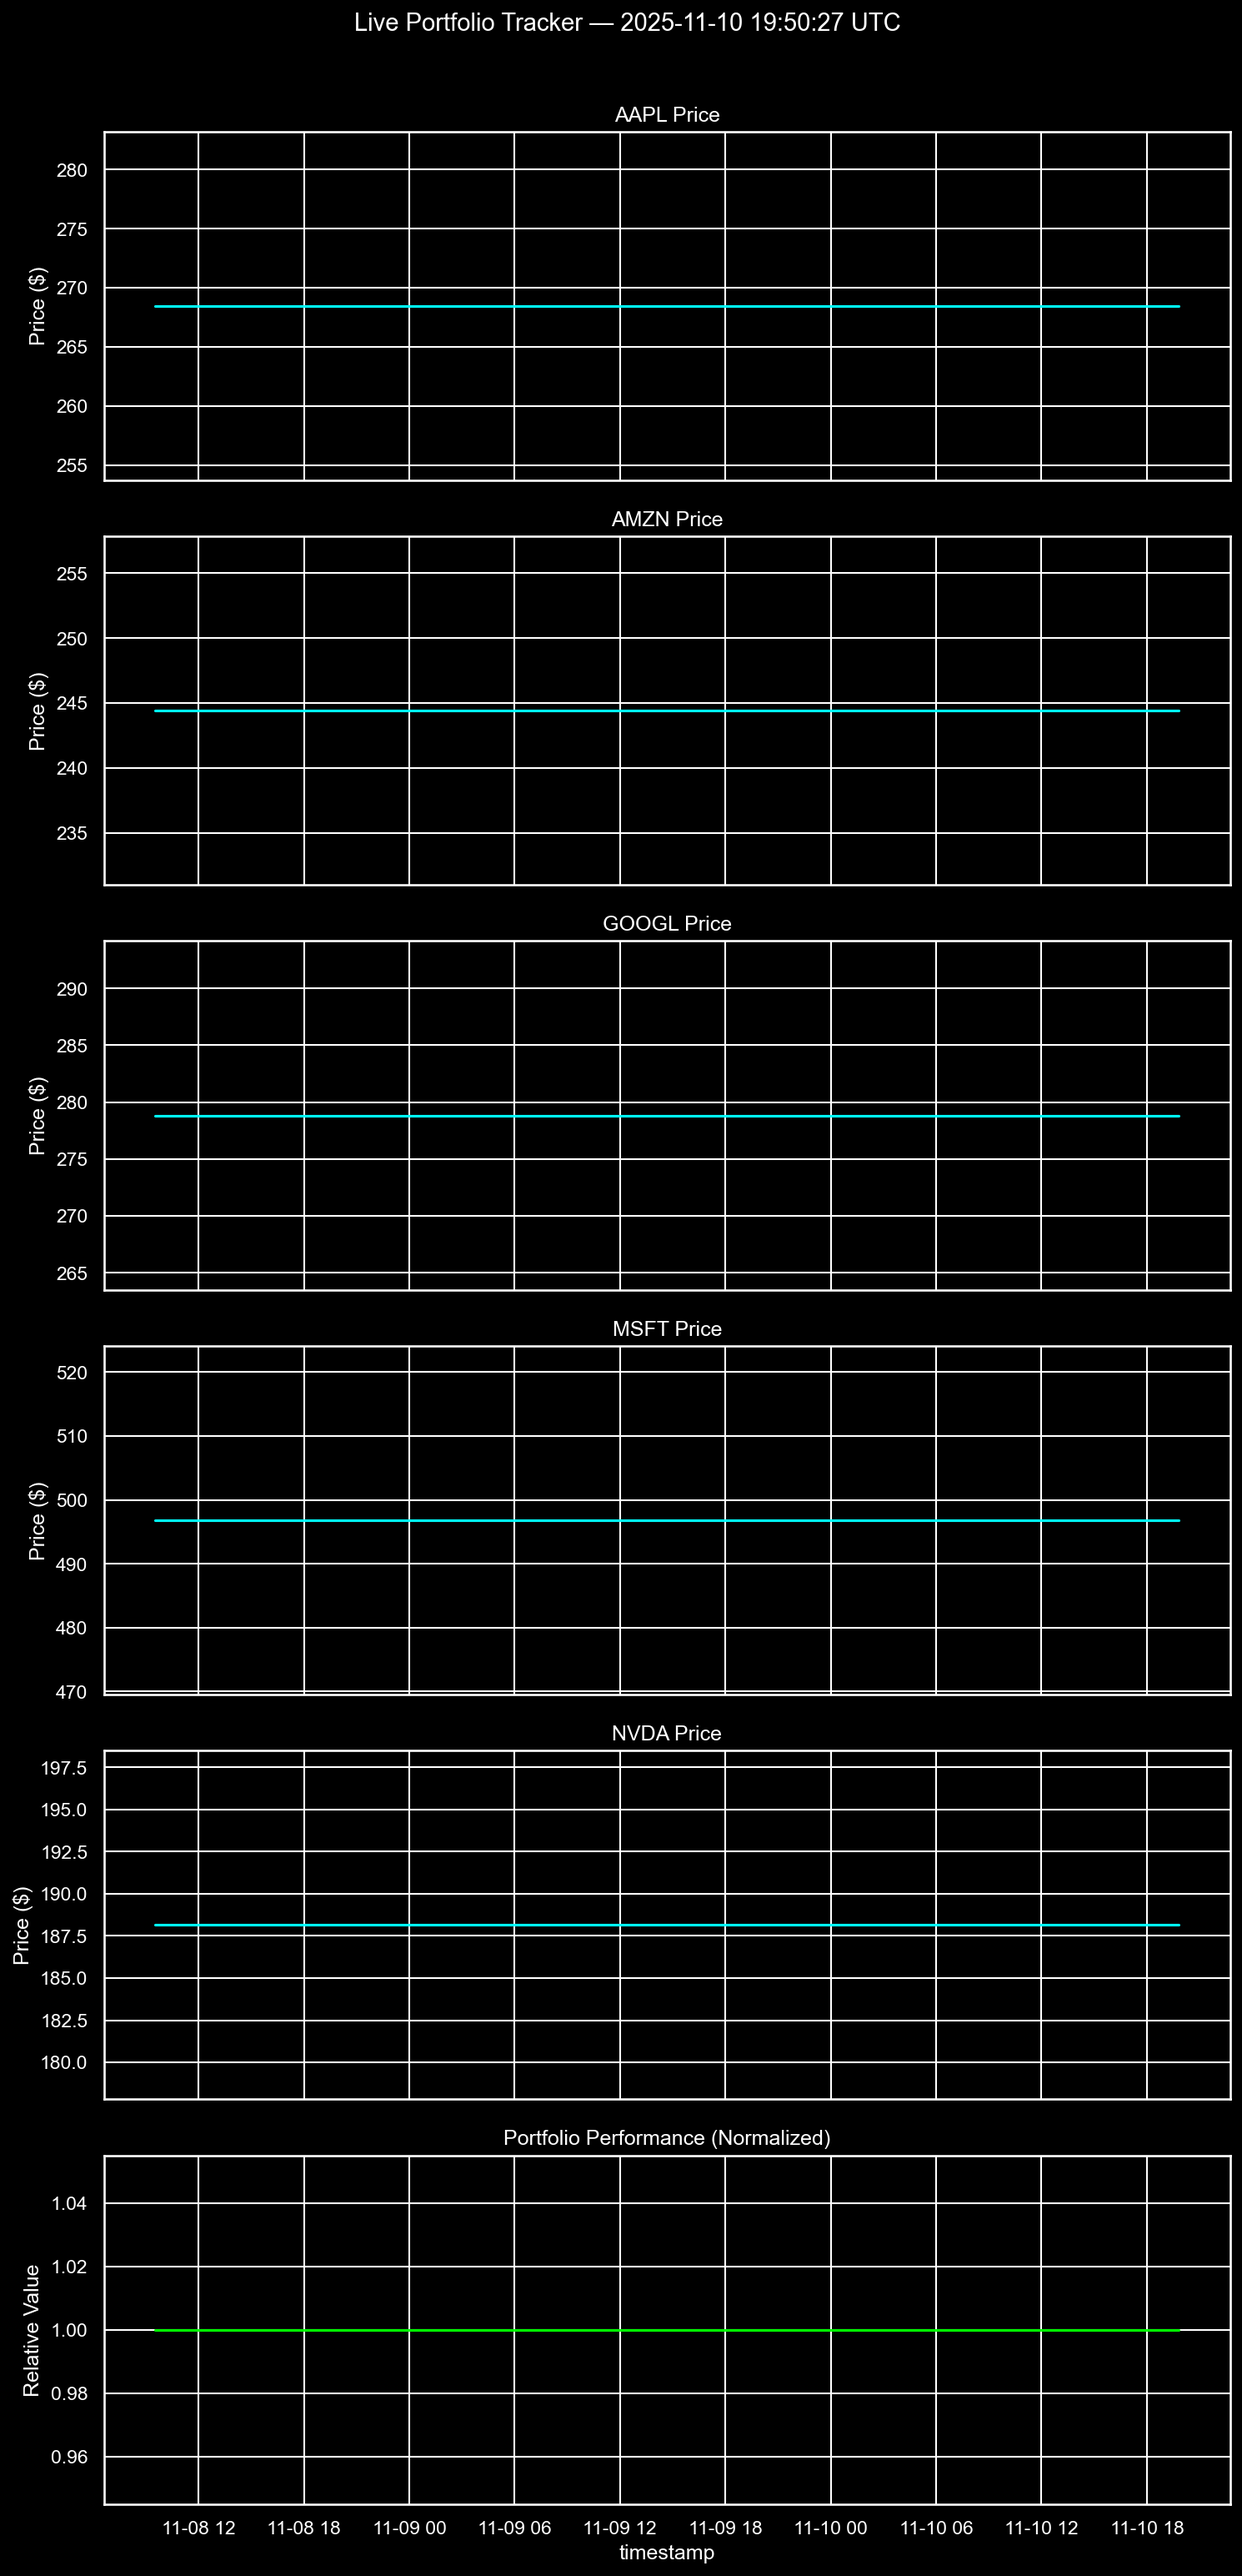
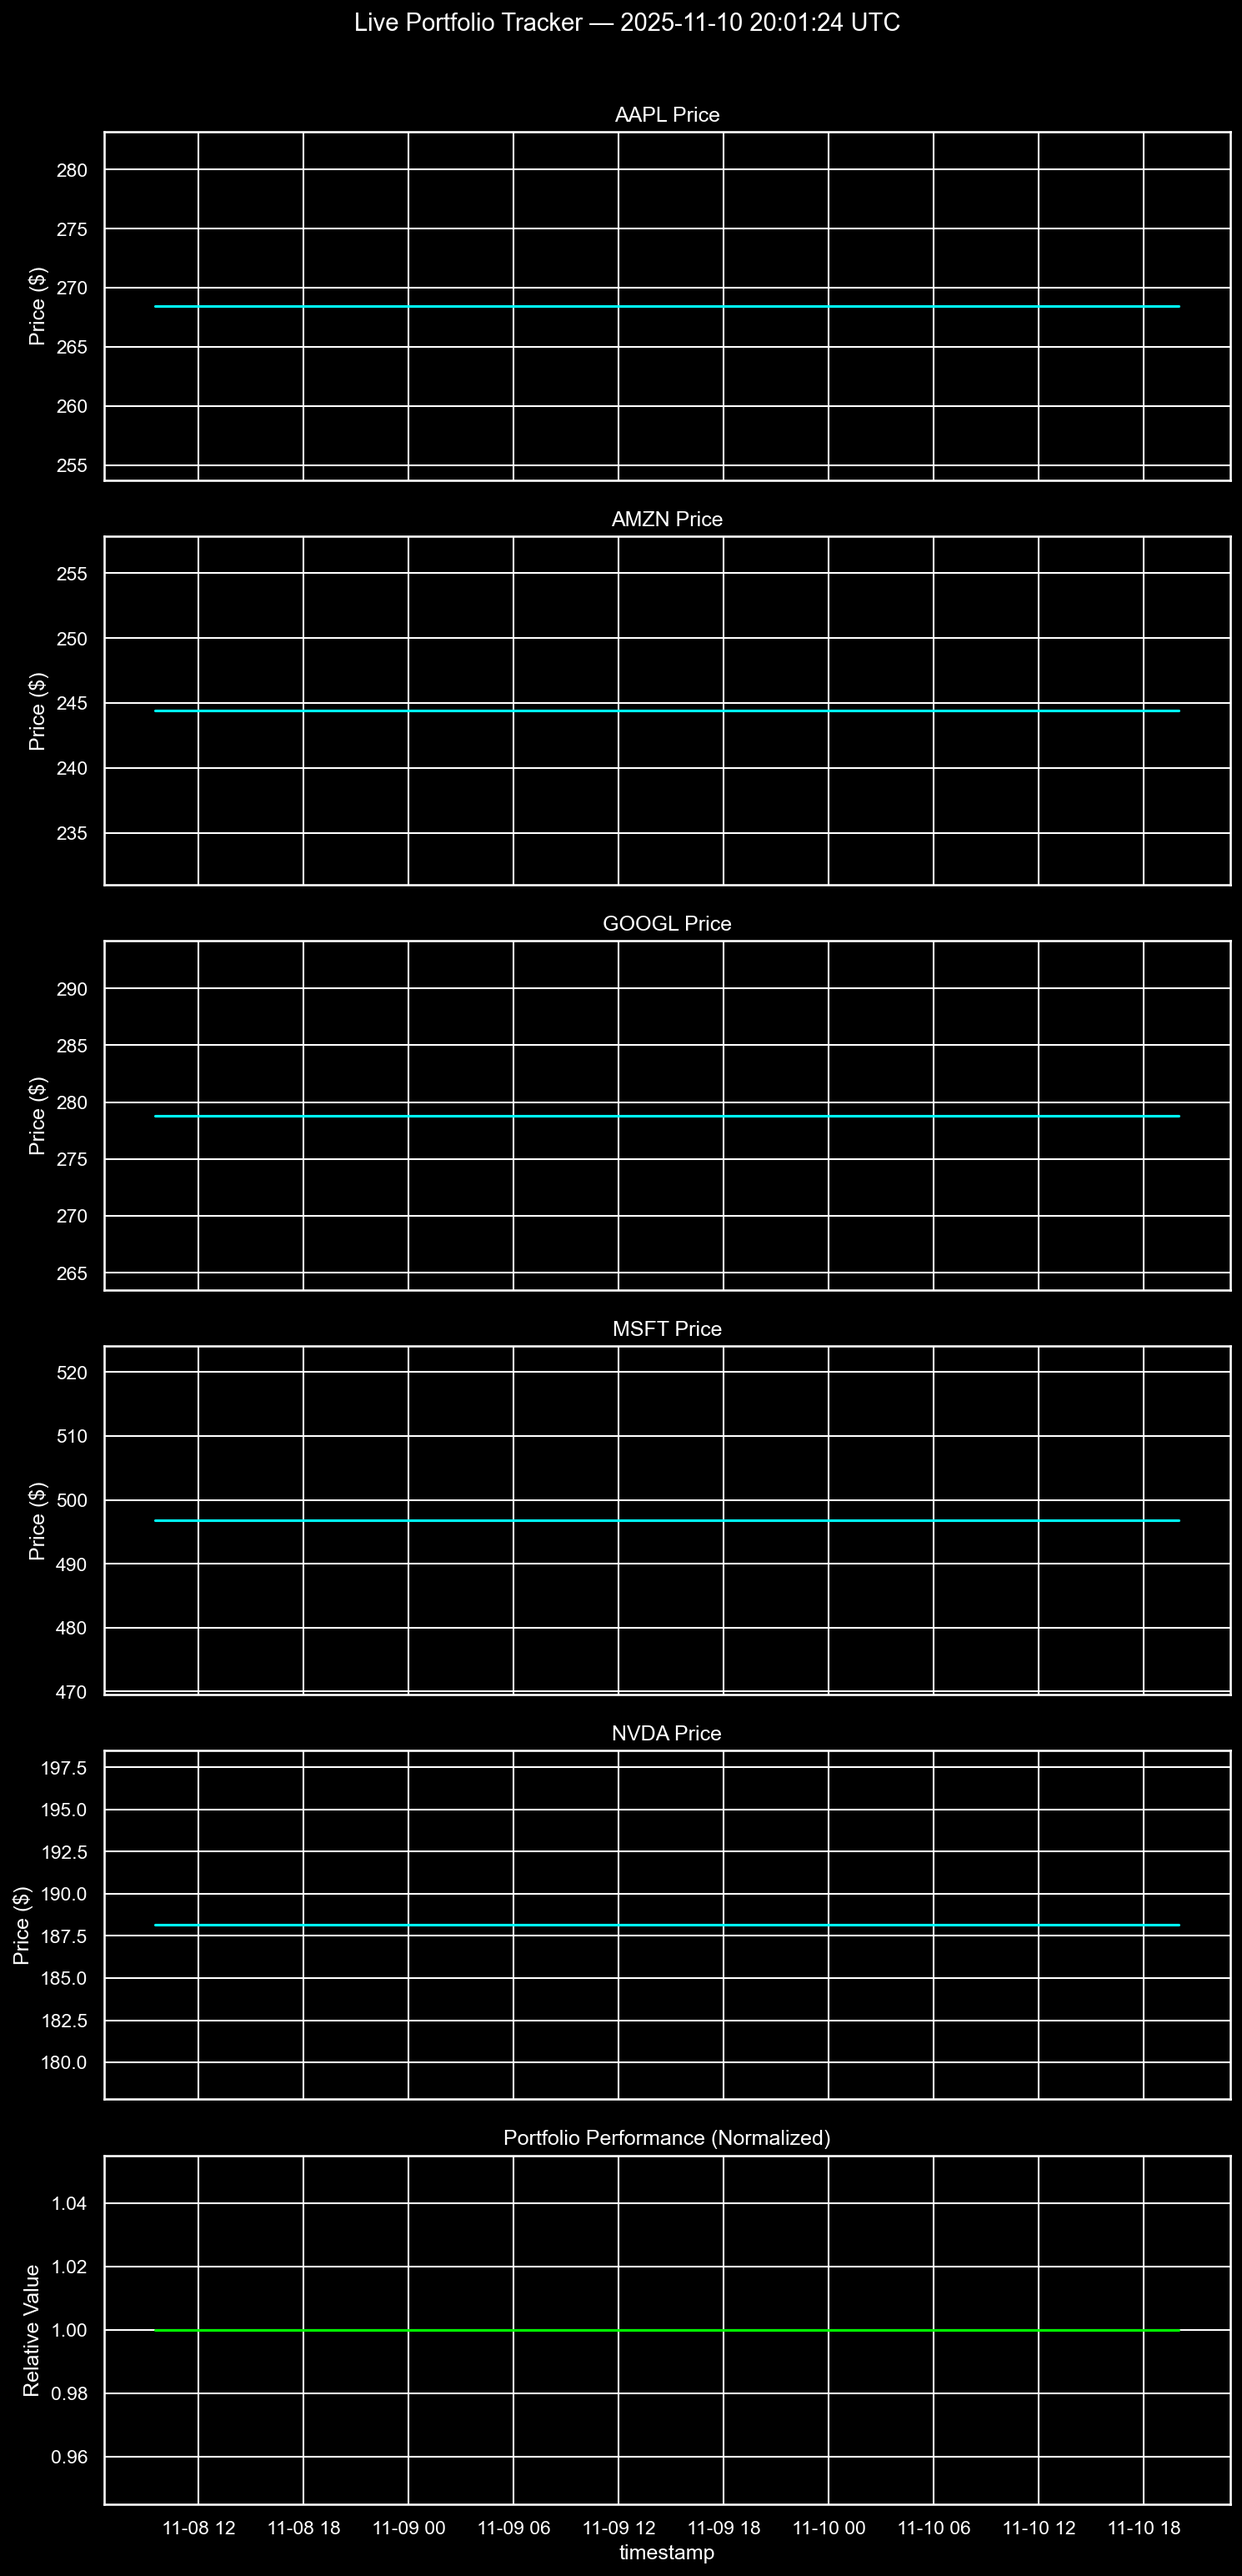
adding FMP to data sources

diff --git a/out/dashboard.html b/out/dashboard.html
@@ -27,8 +27,8 @@
     </style>
 </head>
 <body>
-    <h1>Live Portfolio Performance</h1>
-    <img src="portfolio_live.png?t=1762800623.053523" alt="Portfolio Plot">
-    <div class="timestamp">Last refreshed: 2025-11-10 19:50:23 UTC</div>
+    <h1>📊 Live Portfolio Dashboard</h1>
+    <img src="portfolio_live.png?t=1762801297.749586" alt="Portfolio Plot">
+    <div class="timestamp">Last refreshed: 2025-11-10 20:01:37 UTC</div>
 </body>
 </html>

diff --git a/extract.py b/extract.py
@@ -3,48 +3,107 @@ import time
 from datetime import datetime
 import pandas as pd
 from dotenv import load_dotenv
-from alpha_vantage.timeseries import TimeSeries
+import requests
 
-# Load API  key
+# Load API keys
 load_dotenv()
-api_key = os.getenv("ALPHAVANTAGE_API_KEY")
-ts = TimeSeries(key=api_key, output_format='pandas')
+AV_API_KEY = os.getenv("ALPHAVANTAGE_API_KEY")
+FMP_API_KEY = os.getenv("FMP_API_KEY")
 
-# Load portfolio
+# Portfolio
 tickers = ["AAPL", "MSFT", "GOOGL", "AMZN", "NVDA"]
 output_file = "portfolio_quotes.csv"
 
-# Define helpers
-def fetch_quote(symbol: str):
-    try:
-        data, _ = ts.get_quote_endpoint(symbol)
-        price = float(data["05. price"].iloc[0])
-        ts_str = datetime.utcnow().strftime("%Y-%m-%d %H:%M:%S")
-        print(f"[{ts_str}] {symbol} = ${price:.2f}")
-        return {"timestamp": ts_str, "symbol": symbol, "price": price}
-    except Exception as e:
-        print(f"Error fetching {symbol}: {e}")
-        return None
+# Clear previous data
+if os.path.exists(output_file):
+    os.remove(output_file)
+    print(f"Previous output file '{output_file}' removed. Starting fresh session.")
+else:
+    print("No existing data found. Starting new session.")
 
+# Alpha Vantage fetcher
+def fetch_av_quote(symbol: str):
+    url = (
+        f"https://www.alphavantage.co/query"
+        f"?function=GLOBAL_QUOTE&symbol={symbol}&apikey={AV_API_KEY}"
+    )
+    resp = requests.get(url)
+    resp.raise_for_status()
+    data = resp.json().get("Global Quote", {})
+    if not data or "05. price" not in data:
+        raise ValueError("Invalid or empty response from Alpha Vantage")
+    return float(data["05. price"])
+
+# Financial Modeling Prep (stable endpoint)
+def fetch_fmp_quotes(symbols):
+    prices = {}
+    for symbol in symbols:
+        url = (
+            f"https://financialmodelingprep.com/stable/quote-short"
+            f"?symbol={symbol}&apikey={FMP_API_KEY}"
+        )
+        resp = requests.get(url)
+        resp.raise_for_status()
+        data = resp.json()
+        if not data:
+            print(f"No data returned for {symbol} from FMP.")
+            continue
+        prices[symbol] = float(data[0]["price"])
+        time.sleep(0.3)
+    return prices
+
+# Save records
 def append_to_csv(records):
     if not records:
         return
     df = pd.DataFrame(records)
-    df.to_csv(output_file, mode='a', header=not os.path.exists(output_file), index=False)
+    df.to_csv(output_file, mode="a", header=not os.path.exists(output_file), index=False)
 
-# Run data collection loop
-print(f"Starting Alpha Vantage portfolio tracker for {tickers}")
+# Main alternating loop
+print(f"Starting alternating data collection for {tickers}")
+use_av = True  # Start with Alpha Vantage
 
 try:
     while True:
+        ts_str = datetime.utcnow().strftime("%Y-%m-%d %H:%M:%S")
+        source = "Alpha Vantage" if use_av else "FMP"
+        print(f"\n[{ts_str}] Fetching data from {source}...")
+
         records = []
-        for symbol in tickers:
-            rec = fetch_quote(symbol)
-            if rec:
-                records.append(rec)
-            time.sleep(1.2)
+
+        if use_av:
+            for symbol in tickers:
+                try:
+                    price = fetch_av_quote(symbol)
+                    print(f"{symbol} (AV) = ${price:.2f}")
+                    records.append({
+                        "timestamp": ts_str,
+                        "symbol": symbol,
+                        "price": price,
+                        "source": "AV"
+                    })
+                except Exception as e:
+                    print(f"Error fetching {symbol} from AV: {e}")
+                time.sleep(1.2)  # short delay between Alpha Vantage requests
+        else:
+            try:
+                prices = fetch_fmp_quotes(tickers)
+                for symbol, price in prices.items():
+                    print(f"{symbol} (FMP) = ${price:.2f}")
+                    records.append({
+                        "timestamp": ts_str,
+                        "symbol": symbol,
+                        "price": price,
+                        "source": "FMP"
+                    })
+            except Exception as e:
+                print(f"Error fetching from FMP: {e}")
+
         append_to_csv(records)
-        print(f"Cycle complete at {datetime.utcnow().strftime('%H:%M:%S')} — waiting 60s...\n")
-        time.sleep(60)
+        print(f"[{datetime.utcnow().strftime('%H:%M:%S')}] Cycle complete. Switching source in 30s...\n")
+
+        use_av = not use_av
+        time.sleep(30)
+
 except KeyboardInterrupt:
     print("Stopped by user.")
